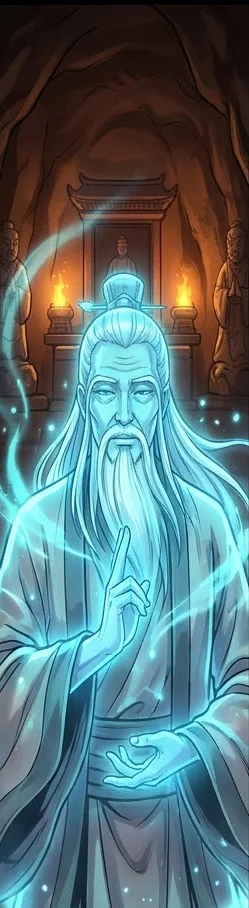
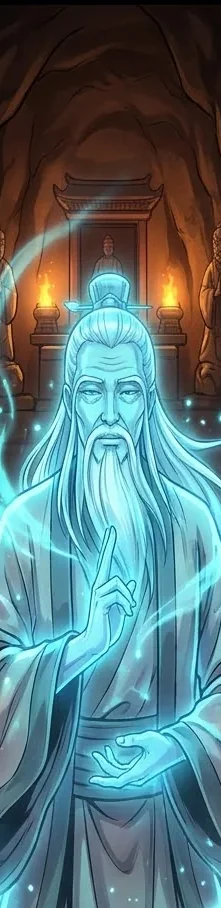
Klany: postać przywódcy na pełną szerokość ekranu, bez ramki
Claude-Session: https://claude.ai/code/session_01E7VUGL8ZGZ7WJYxpTB8ocG

diff --git a/app/src/main/java/com/example/ui/game/Art.kt b/app/src/main/java/com/example/ui/game/Art.kt
@@ -445,20 +445,17 @@ fun IconTab(key: String, label: String, modifier: Modifier = Modifier, badge: St
 @Composable
 fun androidx.compose.foundation.layout.BoxScope.FullFigure(key: String, topPad: Dp = 56.dp, heightFraction: Float = 0.78f, bias: Float = 0.25f) {
     val full = if (rememberWuxiaGraphic(key + "_full") != null) key + "_full" else key
-    ArtImage(full, Modifier.matchParentSize().blur(40.dp), colorFilter = dimFilter(0.3f, 0.7f))
-    Box(Modifier.matchParentSize().background(Brush.horizontalGradient(listOf(Aaa.Ink0.copy(alpha = 0.7f), Color.Transparent, Aaa.Ink0.copy(alpha = 0.7f)))))
+    // Postać na całą szerokość ekranu – bez bocznych krawędzi; dół wtapia się w panel z informacjami.
     ArtImage(
         full,
-        Modifier.align(androidx.compose.ui.BiasAlignment(bias, -1f)).padding(top = topPad).fillMaxHeight(heightFraction).fillMaxWidth(0.7f)
+        Modifier.align(Alignment.TopCenter).fillMaxWidth().fillMaxHeight(heightFraction)
             .graphicsLayer { compositingStrategy = androidx.compose.ui.graphics.CompositingStrategy.Offscreen }
             .drawWithContent {
                 drawContent()
-                drawRect(Brush.horizontalGradient(0f to Color.Transparent, 0.18f to Color.Black, 0.82f to Color.Black, 1f to Color.Transparent),
-                    blendMode = androidx.compose.ui.graphics.BlendMode.DstIn)
-                drawRect(Brush.verticalGradient(0f to Color.Black, 0.72f to Color.Black, 1f to Color.Transparent),
+                drawRect(Brush.verticalGradient(0f to Color.Black, 0.7f to Color.Black, 1f to Color.Transparent),
                     blendMode = androidx.compose.ui.graphics.BlendMode.DstIn)
             },
-        alignment = Alignment.TopCenter,
+        alignment = androidx.compose.ui.BiasAlignment(0f, -0.35f),
         contentScale = ContentScale.Crop
     )
 }
